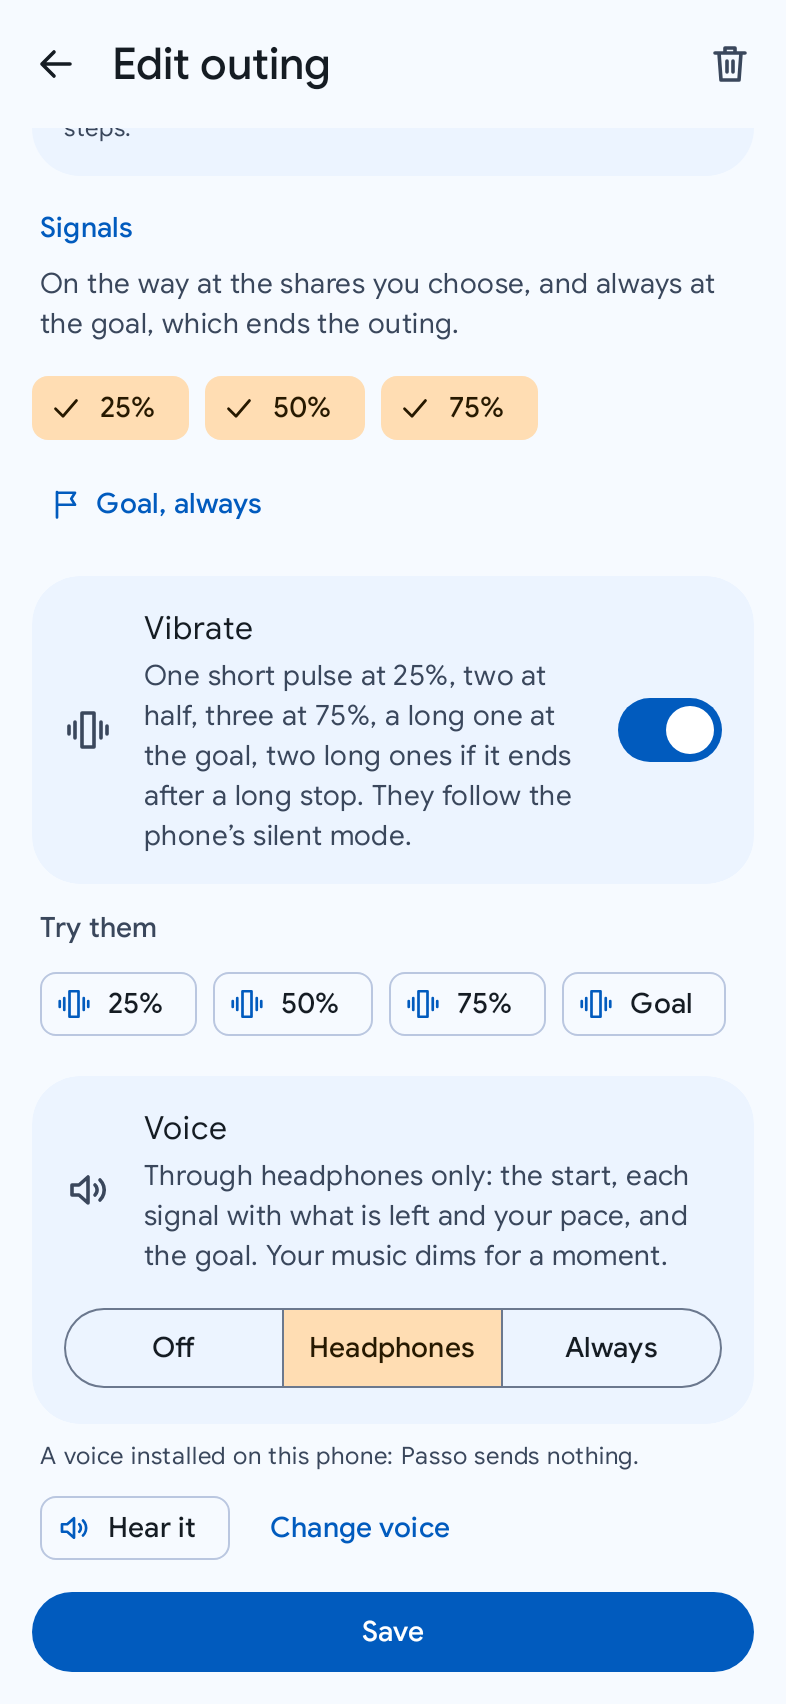
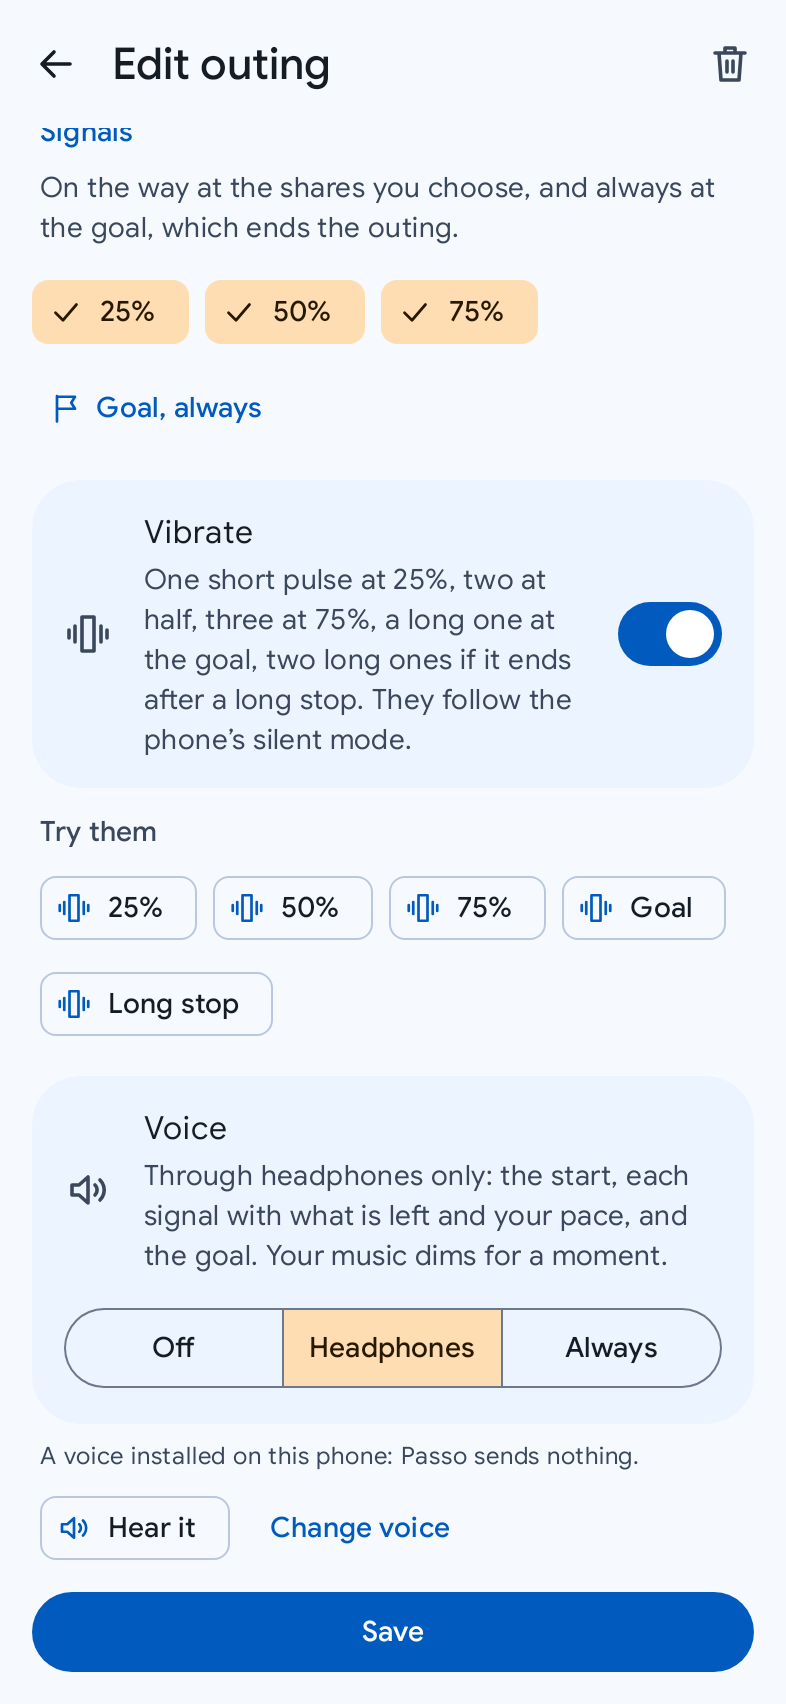
Outing editor: let the reader feel the long-stop vibration first
"Try them" gains a «Long stop» / «Sosta» chip after «Goal» that plays the two
long pulses of an end by stillness. It is the one signal that comes unexpected,
so it is the one most worth learning before the road. Named after the stop, not
«Pausa», which is the reader's own button. Tested, README screenshot redrawn.

Claude-Session: https://claude.ai/code/session_012T7dpKkBQT6G7LYgRwv3Jg

diff --git a/feature/sessions/src/main/kotlin/com/callbackdev/passo/feature/sessions/PlanEditorScreen.kt b/feature/sessions/src/main/kotlin/com/callbackdev/passo/feature/sessions/PlanEditorScreen.kt
@@ -103,6 +103,7 @@ fun PlanEditorRoute(planId: Long?, onDone: () -> Unit, viewModel: PlanEditorView
             milestone = viewModel::milestone,
             vibrate = viewModel::vibrate,
             tryVibration = viewModel::tryVibration,
+            tryEndedStill = viewModel::tryEndedStill,
             voice = viewModel::voice,
             tryVoice = viewModel::tryVoice,
             openVoiceSettings = { runCatching { context.startActivity(SessionSpeech.settingsIntent()) } },
@@ -122,6 +123,7 @@ class PlanEditorActions(
     val milestone: (SessionMilestone, Boolean) -> Unit = { _, _ -> },
     val vibrate: (Boolean) -> Unit = {},
     val tryVibration: (SessionMilestone) -> Unit = {},
+    val tryEndedStill: () -> Unit = {},
     val voice: (SessionVoice) -> Unit = {},
     val tryVoice: () -> Unit = {},
     val openVoiceSettings: () -> Unit = {},
@@ -374,7 +376,7 @@ private fun EditorList(state: PlanEditorState, actions: PlanEditorActions, modif
                             modifier = Modifier.testTag(EditorTags.VIBRATE),
                         )
                     }
-                    if (plan.vibrate) TryVibrations(format, actions.tryVibration)
+                    if (plan.vibrate) TryVibrations(format, actions.tryVibration, actions.tryEndedStill)
                 }
             }
         }
@@ -601,10 +603,13 @@ private fun VoiceChoice(state: PlanEditorState, actions: PlanEditorActions) {
     }
 }
 
-/** Each signal, felt before it is chosen: the patterns are learned here, not on the road. */
+/**
+ * Each signal, felt before it is chosen: the patterns are learned here, not on the road. The end
+ * by a long stop too, the one that comes unexpected and most needs to be told from the goal.
+ */
 @OptIn(ExperimentalLayoutApi::class)
 @Composable
-private fun TryVibrations(format: MeasureFormatter, onTry: (SessionMilestone) -> Unit) {
+private fun TryVibrations(format: MeasureFormatter, onTry: (SessionMilestone) -> Unit, onTryEndedStill: () -> Unit) {
     Column(
         modifier = Modifier.padding(horizontal = ScreenMargin + 4.dp),
         verticalArrangement = Arrangement.spacedBy(4.dp),
@@ -637,6 +642,18 @@ private fun TryVibrations(format: MeasureFormatter, onTry: (SessionMilestone) ->
                     modifier = Modifier.testTag("${EditorTags.TRY}-${milestone.percent}"),
                 )
             }
+            AssistChip(
+                onClick = onTryEndedStill,
+                label = { Text(stringResource(R.string.editor_try_ended_still)) },
+                leadingIcon = {
+                    Icon(
+                        PassoIcons.Vibrate,
+                        contentDescription = null,
+                        modifier = Modifier.size(AssistChipDefaults.IconSize),
+                    )
+                },
+                modifier = Modifier.testTag(EditorTags.TRY_ENDED_STILL),
+            )
         }
     }
 }
@@ -652,6 +669,7 @@ object EditorTags {
     const val MILESTONE = "editor_milestone"
     const val VIBRATE = "editor_vibrate"
     const val TRY = "editor_try"
+    const val TRY_ENDED_STILL = "editor_try_ended_still"
     const val VOICE = "editor_voice"
     const val TRY_VOICE = "editor_try_voice"
     const val CHANGE_VOICE = "editor_change_voice"

diff --git a/feature/sessions/src/test/kotlin/com/callbackdev/passo/feature/sessions/PlanEditorScreenTest.kt b/feature/sessions/src/test/kotlin/com/callbackdev/passo/feature/sessions/PlanEditorScreenTest.kt
@@ -120,6 +120,22 @@ class PlanEditorScreenTest {
     }
 
     @Test
+    fun `every vibration can be felt first, the end by a long stop too`() {
+        val felt = mutableListOf<String>()
+        val actions = PlanEditorActions(
+            tryVibration = { felt += it.name },
+            tryEndedStill = { felt += "STILL" },
+        )
+        compose.setContent { PassoTheme { PlanEditorScreen(state(), onBack = {}, actions = actions) } }
+
+        compose.onNodeWithTag(EditorTags.LIST).performScrollToNode(hasTestTag(EditorTags.TRY_ENDED_STILL))
+        compose.onNodeWithTag("${EditorTags.TRY}-100").performClick()
+        compose.onNodeWithTag(EditorTags.TRY_ENDED_STILL).assertIsDisplayed()
+        compose.onNodeWithText("Long stop").performClick()
+        assertThat(felt).containsExactly("GOAL", "STILL").inOrder()
+    }
+
+    @Test
     fun `the voice is chosen, heard first, and says where it speaks`() {
         var editor by mutableStateOf(state().copy(voiceAvailability = VoiceAvailability.READY))
         var heard = false

diff --git a/feature/sessions/src/main/kotlin/com/callbackdev/passo/feature/sessions/PlanEditorViewModel.kt b/feature/sessions/src/main/kotlin/com/callbackdev/passo/feature/sessions/PlanEditorViewModel.kt
@@ -147,6 +147,8 @@ constructor(
 
     fun tryVibration(milestone: SessionMilestone) = SessionHaptics.play(context, milestone)
 
+    fun tryEndedStill() = SessionHaptics.playEndedStill(context)
+
     fun voice(voice: SessionVoice) {
         if (voice != SessionVoice.OFF) speech.prepare()
         edit { it.draft.copy(voice = voice) }

diff --git a/PLANNING.md b/PLANNING.md
@@ -940,7 +940,7 @@ Include:
 
 - **The real release key, and the temporary one retired** (owner, 26 Sep 2026): the owner created the key and put it in GitHub Secrets under the four names Chiaro's `release.yml` reads. `release.yml` now takes Chiaro's shape: it decodes `KEYSTORE_BASE64` and passes the rest as `ORG_GRADLE_PROJECT_PASSO_*`, with no fallback, and fails by name when a secret is missing (a missing one used to mean the temporary key, now it would mean an unsigned or wrongly signed release). Passo's own gates stay (tag against `passo.versionName`, formatting, permissions, the checksum). `keystore/temporary-release.keystore` is deleted: no tag was ever pushed, so nobody has a build signed with it. The fingerprint is published in the README.
 
-- **Outings: an end by stillness is told, and can be taken back** (owner's field test, 27 Sep 2026: a walk stopped for a chat past halfway, closed by the 15 minutes without a step, noticed only on opening the phone). The end is noticed at the first steps after the stop, so it is told then, where the reader walks on: two long pulses (unlike the counts and the goal's single one) and, if the outing speaks, one sentence; the notification says it with "Resume", for 15 minutes from that moment, like the goal's "Keep going", and so does Today's card. Resumed, the steps since are counted and the stillness is not (each step at most 1.5 s); a milestone or the goal those steps crossed is told then. Not for a pause left an hour, the four-hour limit or the reader's own stop. Closing the finished card now withdraws "Keep going" and "Resume", in the notification too: closed means over. No timer, no wake lock, no new registration: everything rides on a step batch or a touch, as before.
+- **Outings: an end by stillness is told, and can be taken back** (owner's field test, 27 Sep 2026: a walk stopped for a chat past halfway, closed by the 15 minutes without a step, noticed only on opening the phone). The end is noticed at the first steps after the stop, so it is told then, where the reader walks on: two long pulses (unlike the counts and the goal's single one) and, if the outing speaks, one sentence; the notification says it with "Resume", for 15 minutes from that moment, like the goal's "Keep going", and so does Today's card. Resumed, the steps since are counted and the stillness is not (each step at most 1.5 s); a milestone or the goal those steps crossed is told then. Not for a pause left an hour, the four-hour limit or the reader's own stop. Closing the finished card now withdraws "Keep going" and "Resume", in the notification too: closed means over. The editor's "Try them" has it too («Long stop» / «Sosta», not «Pausa», which is the reader's own button): the one signal that comes unexpected is the one most worth feeling beforehand. No timer, no wake lock, no new registration: everything rides on a step batch or a touch, as before.
 - **The outing editor with the keyboard up**: drawn edge to edge, the window no longer shrinks for the keyboard, so the Save bar pads for the keyboard as well as the navigation bar, and the list above ends where it begins; the last settings stay within reach while the name is typed (`PlanEditorScreenTest`).
 
 ### Open
